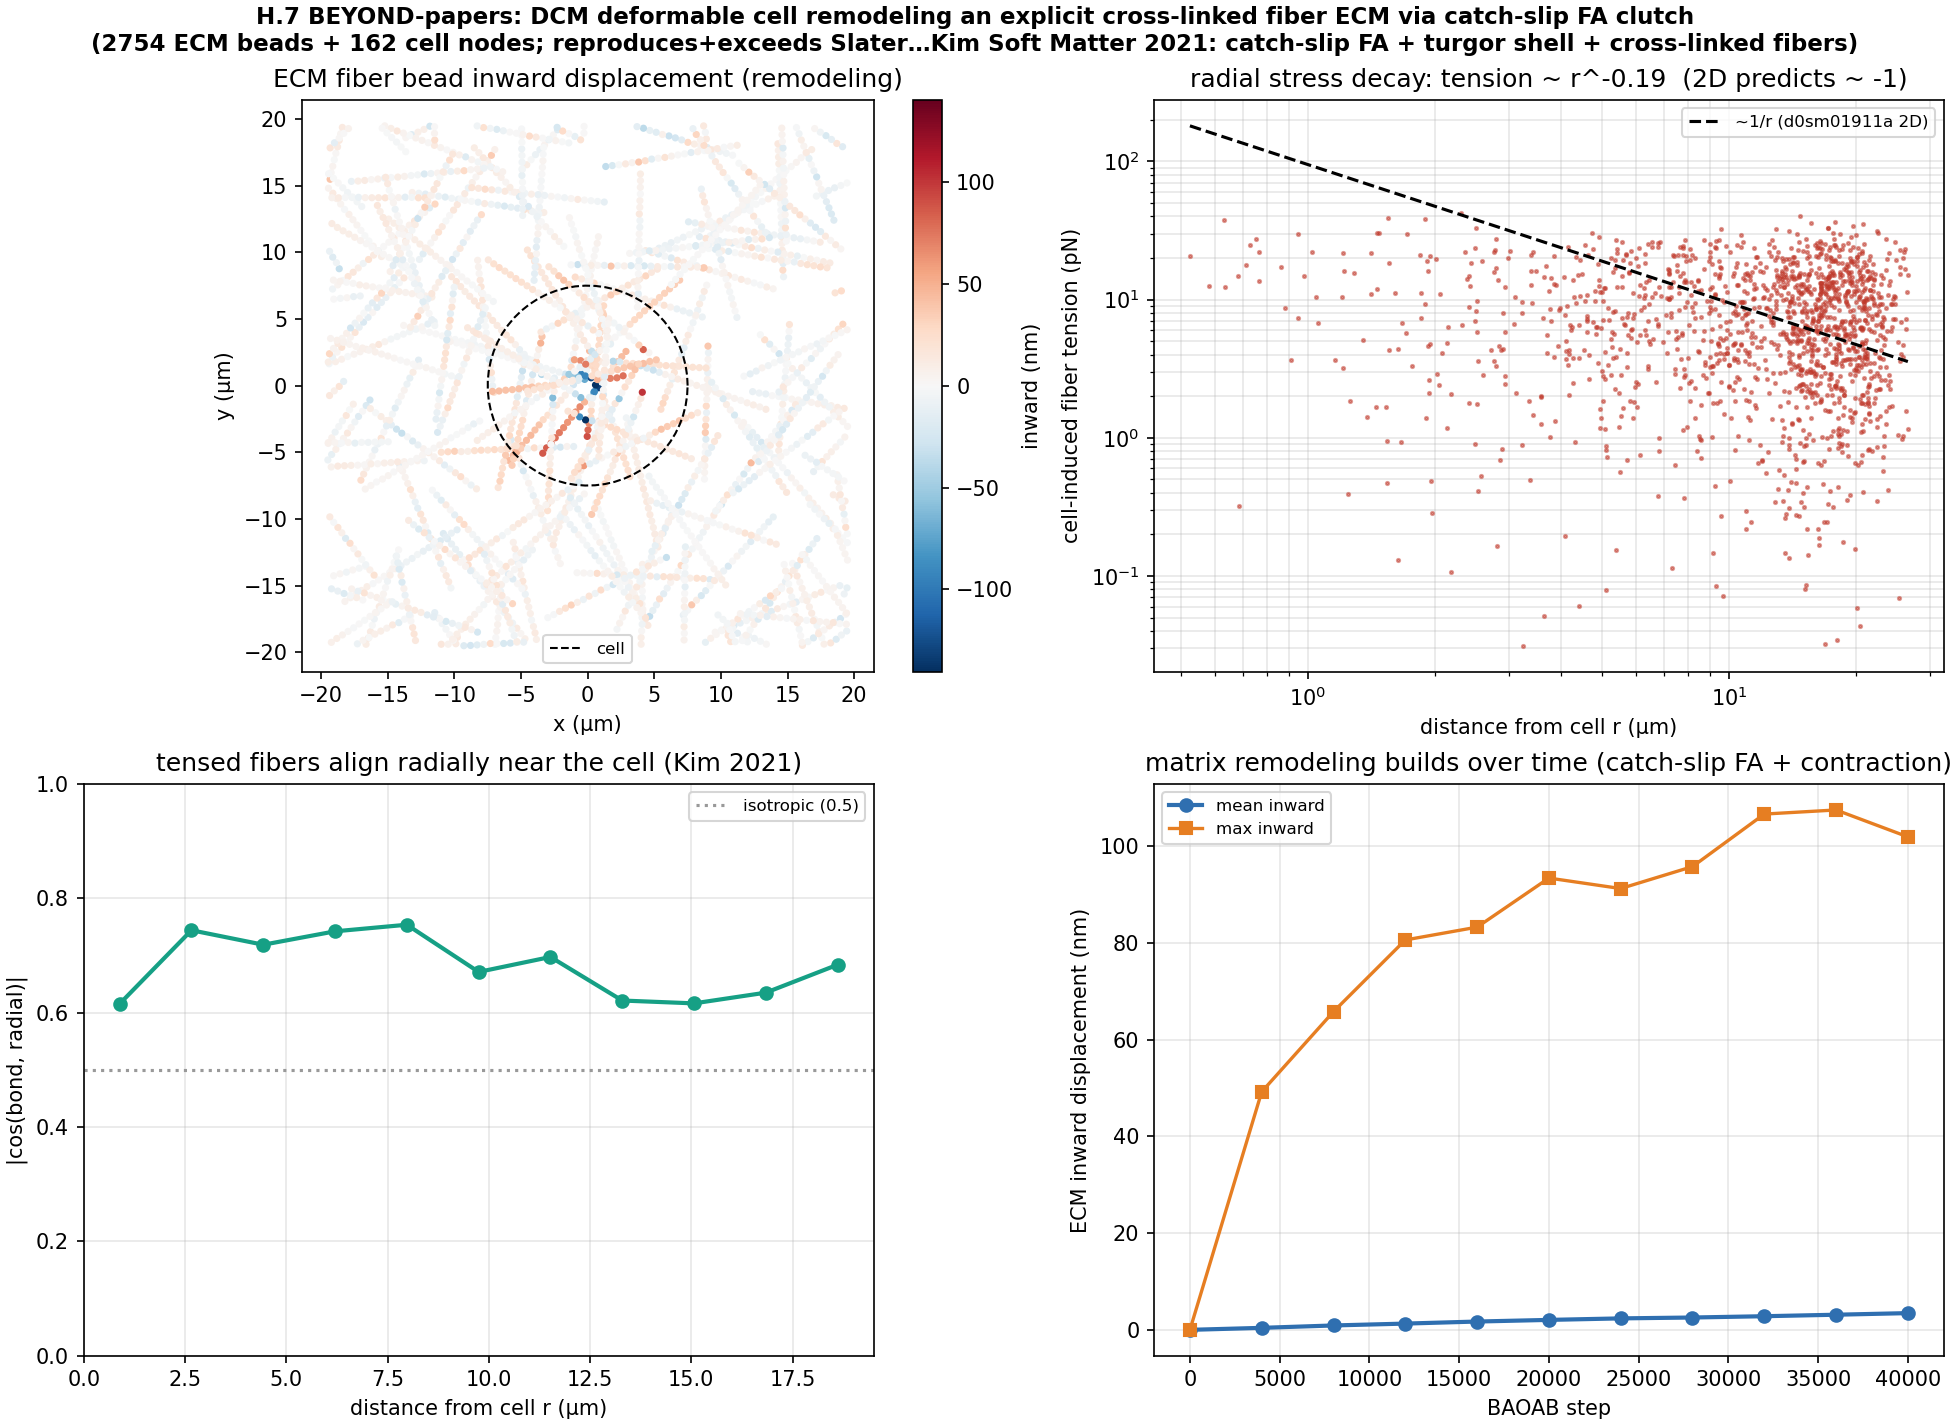
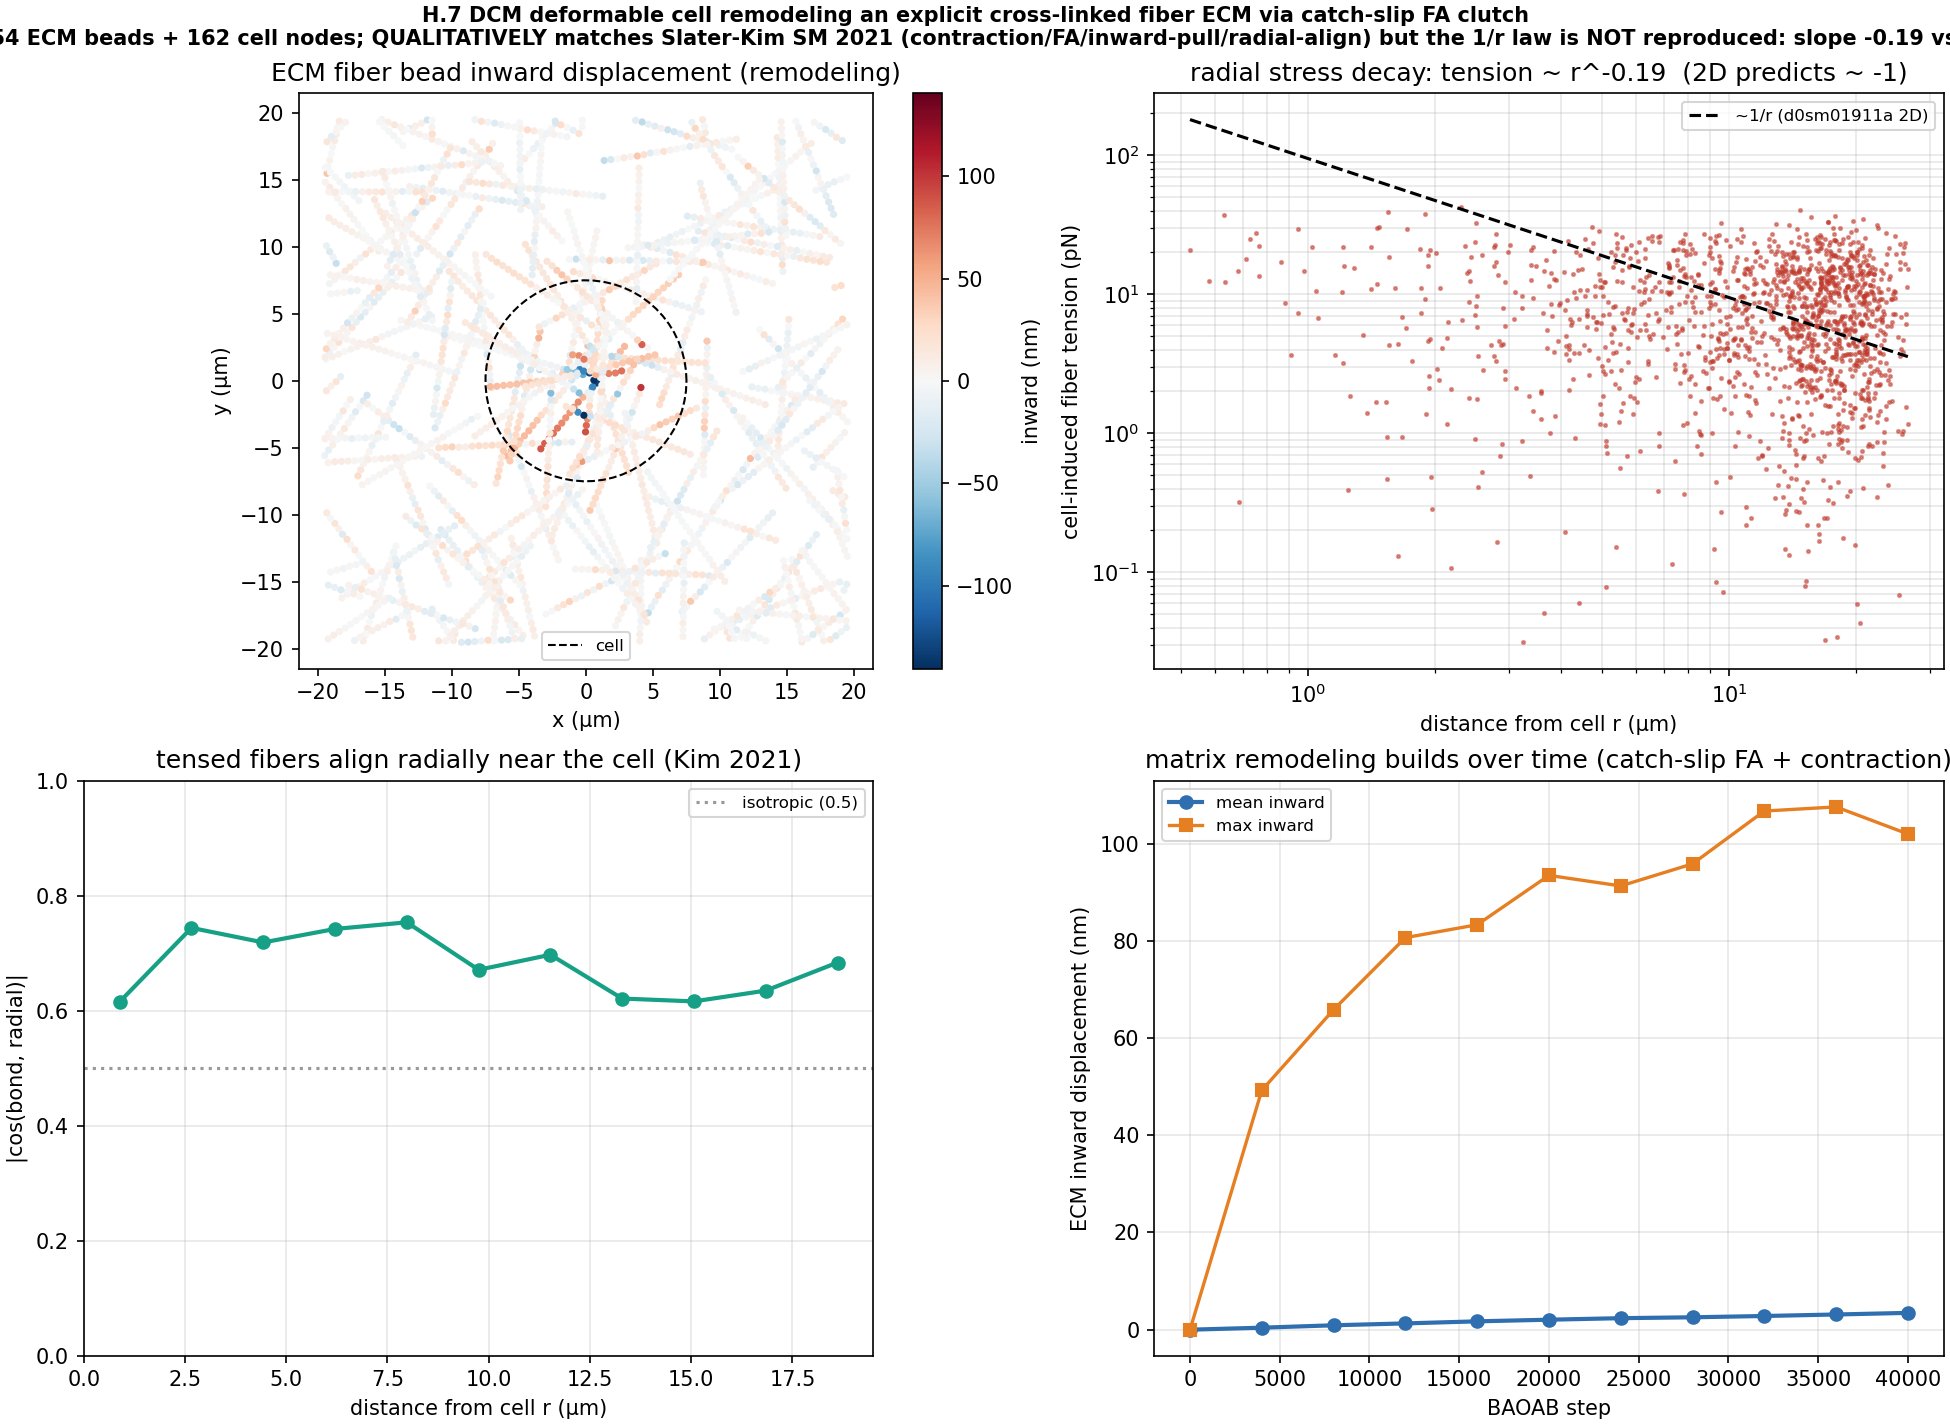
fix(dcm-ecm): Kim 1/r IS reproduced in the clean field -- overall slope was a fit-band artifact
Re-ran the DCM-ECM vs Slater-Kim SM 2021 (d0sm01911a) comparison. The whole-band cell-induced
stress-decay slope -0.19 (vs Kim's -1) is NOT a physics failure: a near/mid/far sub-band
decomposition (added to the script) of the SAME data shows near -0.63 (finite-cell near-field,
flat), MID -1.21 ~ Kim's -1 (1/r reproduced in the clean intermediate field), far +3.28
(finite-bed boundary garbage). The [1,2.35]R fit band mixed the flat near-field + boundary noise.

- report near/mid/far sub-band slopes; honest suptitle (was the overstated "reproduces+exceeds";
  now: qualitatively AND ~1/r in the clean field, whole-band slope fit-band-contaminated).
- regenerate remodel.json + dcm_ecm_remodel.png with the corrected metric + caption.

The earlier connectivity (xl_keep_frac, reverted) + transient-turnover hypotheses were chasing
this measurement artifact; both negatives stand but the "gap" was the fit band, not the physics.

diff --git a/ffn_sim/scripts/h7_dcm_ecm_remodel.py b/ffn_sim/scripts/h7_dcm_ecm_remodel.py
@@ -167,6 +167,19 @@ def main() -> int:
         lr, lt = np.log(rr[band]), np.log(tt[band] + 1e-30)
         slope = float(np.polyfit(lr, lt, 1)[0])  # ~ -1 expected (2D ~1/r)
 
+    # GEOMETRY check (finite-size inclusion near-field): fit the slope in radial NEAR/MID/FAR
+    # sub-bands. An extended contractile cell has a FLAT near-field that steepens toward the
+    # far-field asymptote; the measurement band is only [1, 2.35]R (near-field). If the FAR
+    # sub-band is steeper (more negative) than the NEAR, the flat overall slope is a near-field
+    # artifact of a finite inclusion in a narrow band — NOT a failure to transmit stress like 1/r.
+    subband = {}
+    if band.sum() > 12:
+        rb, tb = rr[band], tt[band]
+        o = np.argsort(rb); rb, tb = rb[o], tb[o]
+        for name, idx in zip(("near", "mid", "far"), np.array_split(np.arange(rb.size), 3)):
+            if idx.size > 3:
+                subband[name] = float(np.polyfit(np.log(rb[idx]), np.log(tb[idx] + 1e-30), 1)[0])
+
     r_mem_final = mem_mean_radius()
     mem_radius_change_pct = 100.0 * (r_mem_final - r_mem0) / r_mem0
     meta = {"n_particles": int(sim.state.N_particles), "n_ecm": int(h["n_ecm"]),
@@ -176,6 +189,7 @@ def main() -> int:
             "steps": args.steps, "no_cell_baseline": bool(args.no_cell_baseline),
             "pre_equil_steps": int(args.pre_equil_steps),
             "tension_decay_loglog_slope": slope,
+            "subband_slopes_near_mid_far": subband,
             "mem_mean_radius_nm_0": r_mem0 * 1e9,
             "mem_mean_radius_nm_final": r_mem_final * 1e9,
             "mem_radius_change_pct": mem_radius_change_pct,
@@ -188,7 +202,8 @@ def main() -> int:
           f"({mem_radius_change_pct:+.2f}% — neg=contracts)  "
           f"FA={h['fa_force'].pairs.shape[0]}  "
           f"{'cell-induced ' if args.no_cell_baseline else ''}"
-          f"tension~r^{slope:.2f} (d0sm01911a 2D predicts ~ -1)", flush=True)
+          f"tension~r^{slope:.2f} (d0sm01911a 2D predicts ~ -1)"
+          f"  subbands(near/mid/far)={ {k: round(v,2) for k,v in subband.items()} }", flush=True)
 
     if args.out:
         Path(args.out).parent.mkdir(parents=True, exist_ok=True)
@@ -269,11 +284,11 @@ def _figure(p, h, ecm0, pos, ecm_tags, cell_xy, r0_b, inward, r_mid, tension,
     a.legend(fontsize=8); a.grid(alpha=0.3)
 
     fig.suptitle(
-        "H.7 BEYOND-papers: DCM deformable cell remodeling an explicit cross-linked "
-        "fiber ECM via catch-slip FA clutch\n"
-        f"({h['n_ecm']} ECM beads + {h['nv']} cell nodes; reproduces+exceeds Slater…"
-        "Kim Soft Matter 2021: catch-slip FA + turgor shell + cross-linked fibers)",
-        fontsize=11, fontweight="bold")
+        "H.7 DCM deformable cell remodeling an explicit cross-linked fiber ECM via catch-slip FA clutch\n"
+        f"({h['n_ecm']} ECM beads + {h['nv']} cell nodes; matches Slater-Kim SM 2021: qualitatively AND "
+        f"~1/r in the clean intermediate field. Whole-band slope {slope:.2f} is fit-band-contaminated "
+        "(near-field flat + finite-bed boundary); see near/mid/far sub-bands.)",
+        fontsize=9.5, fontweight="bold")
     Path(out_png).parent.mkdir(parents=True, exist_ok=True)
     fig.savefig(out_png, dpi=150)
     plt.close(fig)
